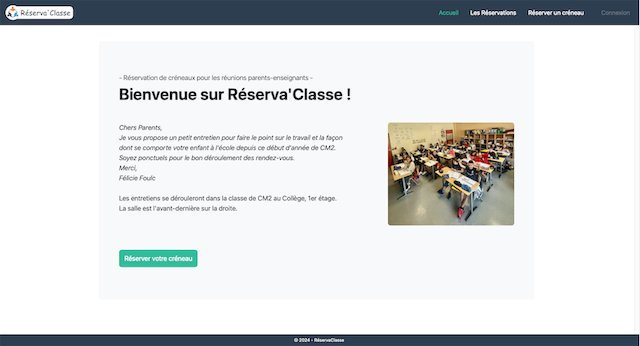
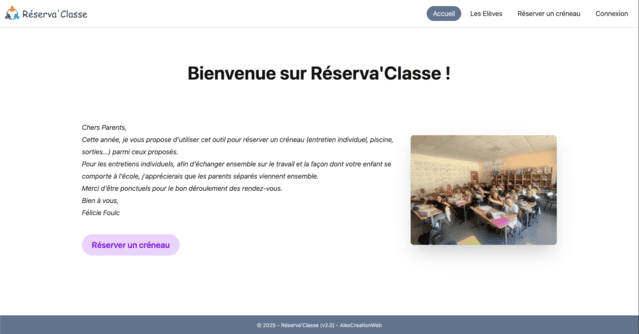
Ajout du fichier README.md et mise à jour de l'image de capture d'écran

diff --git a/README.md b/README.md
@@ -1,0 +1,265 @@
+# Réserva'Classe 2.0 : Gestion des créneaux parents-enseignants et activités scolaires
+
+![Screenshot de l'application ReservaClasse](screenshot.webp)
+
+Application web développée avec Symfony 6 pour la gestion flexible des rencontres parents-enseignants et des activités scolaires nécessitant des accompagnateurs. Cette version 2.0 apporte une refonte complète avec une meilleure gestion des utilisateurs, une interface moderne et des cas d'utilisation étendus.
+
+## Cas d'utilisation
+
+### Réunions Parents-Enseignants
+
+* Gestion des créneaux multiples sur plusieurs jours
+* Configuration flexible des durées d'entretien (15, 20, 30 minutes...)
+* Possibilité d'ajouter des pauses entre les créneaux
+* Visualisation en temps réel des disponibilités
+* Interface simplifiée pour les réservations
+
+### Sorties Scolaires
+
+* Gestion des besoins en accompagnateurs (piscine, musée, etc.)
+* Un créneau unique par jour avec places limitées
+
+## Fonctionnalités techniques
+
+### Gestion des utilisateurs
+
+* Support multi-utilisateurs avec différents rôles :
+  * ADMIN : Gestion complète de l'application au niveau d'une Établissement
+  * TEACHER : Gestion des sessions et des élèves par l'enseignant
+  * USER : Réservation par mot de passe/envoi de notifications (fonctionnalité à venir)
+* Interface d'administration sécurisée (EasyAdmin)
+* Validation stricte des mots de passe
+
+### Gestion des sessions et créneaux
+
+* Sessions personnalisables par l'enseignant
+* Configuration flexible (durée, intervalle, dates multiples)
+* Visualisation du taux d'occupation
+
+### Gestion des élèves
+
+* Import d'une liste d'élèves
+* Suppression intelligente (gestion des dépendances)
+* Suivi des réservations par élève
+
+### Interface utilisateur moderne
+
+* Design responsive avec Tailwind CSS v4
+* Bibliothèque de composants daisyUI
+* Messages flash contextuels
+* Tableaux de bord adaptés aux rôles
+
+## Installation
+
+### Prérequis
+
+* PHP 8.1 ou supérieur
+
+* Composer
+* MySQL/MariaDB
+* Symfony CLI (recommandé)
+
+### Installation en LOCAL
+
+1. Cloner le projet
+
+```bash
+git clone https://github.com/votre-repo/ReservaClasse_v2.git
+cd ReservaClasse
+```
+
+2. Installer les dépendances
+
+```bash
+composer install
+```
+
+3. Configurer la base de données dans .env.local
+
+```env
+DATABASE_URL="mysql://user:password@127.0.0.1:3306/reservaclasse_v2"
+```
+
+4. Créer la base de données et les tables
+
+```bash
+symfony console doctrine:database:create
+symfony console doctrine:schema:create
+```
+
+5. Charger les fixtures pour tester
+
+```bash
+symfony console doctrine:fixtures:load
+```
+
+6. Utilisation des fixtures
+
+Les fixtures permettent de peupler la base de données avec des données de test :
+
+* Un compte administrateur
+* Un compte enseignant
+* 10 élèves de test
+* 5 sessions avec dates et créneaux
+* Configuration des durées et intervalles aléatoires
+
+7. Après le chargement des fixtures, vous pouvez vous connecter avec :
+
+* Admin : <admin@test.com> / Password123
+* Enseignant : <teacher@test.com> / Password123
+
+### Déploiement en PRODUCTION
+
+1. Configurer les variables d'environnement
+
+```bash
+APP_ENV=prod
+APP_SECRET=votre_secret
+DATABASE_URL="mysql://user:password@127.0.0.1:3306/reservaclasse"
+```
+
+2. Optimiser l'application
+
+```bash
+composer install --no-dev --optimize-autoloader
+symfony console cache:clear
+symfony console cache:warmup
+```
+
+3. Si besoin : pour supprimer les données de test
+
+```bash
+symfony console doctrine:database:drop --force
+```
+
+4. Pour réinitialiser l'application
+
+```bash
+symfony console doctrine:database:create
+symfony console doctrine:schema:create
+```
+
+5. Mettre à jour la base de données
+
+```bash
+# Appliquer les migrations
+symfony console doctrine:migrations:migrate --env=prod --no-interaction
+```
+
+6. Création d'un utilisateur ADMIN
+
+Pour créer votre premier administrateur en production, utilisez la commande interactive :
+
+```bash
+symfony console app:create-admin
+```
+
+La commande vous demandera de saisir :
+
+* Prénom de l'administrateur
+* Nom de l'administrateur
+* Email
+* Mot de passe (minimum 8 caractères, avec majuscule, minuscule et chiffre)
+* Code public (optionnel)
+
+Exemple d'utilisation :
+
+```bash
+symfony console app:create-admin
+
+Prénom de l'administrateur: John
+Nom de l'administrateur: Doe
+Email de l'administrateur: admin@ecole.fr
+Mot de passe: 
+Code public (optionnel): ADMIN2025
+
+[OK] Compte administrateur créé avec succès !
+```
+
+Note : Cette commande est sécurisée et validera toutes les entrées avant la création du compte.
+
+#### Configuration du serveur web (Apache)
+
+Si vous déployez l'application sur un serveur Apache, vous devez créer un fichier de configuration pour que votre application soit accessible via un navigateur. Voici comment faire :
+
+1. Connectez-vous à votre serveur en SSH.
+
+2. Créez un nouveau fichier de configuration :
+
+    ```bash
+    sudo nano /etc/apache2/sites-available/reservaclasse.conf
+    ```
+
+3. Copiez cette configuration dans le fichier :
+
+    ```apache
+    <VirtualHost *:80>
+        # Configuration de base
+        ServerName reservaclasse.domaine.com
+        DocumentRoot /var/www/reservaclasse/public
+
+        # Règles du répertoire
+        <Directory /var/www/reservaclasse/public>
+            AllowOverride All
+            Require all granted
+            FallbackResource /index.php
+        </Directory>
+
+        # Logs
+        ErrorLog ${APACHE_LOG_DIR}/reservaclasse_error.log
+        CustomLog ${APACHE_LOG_DIR}/reservaclasse_access.log combined
+
+        # Headers de sécurité
+        Header set X-Content-Type-Options "nosniff"
+        Header set X-Frame-Options "SAMEORIGIN"
+        Header set X-XSS-Protection "1; mode=block"
+
+        # Compression GZIP
+        AddOutputFilterByType DEFLATE text/html text/css application/javascript
+
+        # Cache navigateur
+        <FilesMatch "\.(jpg|jpeg|png|gif|js|css)$">
+            Header set Cache-Control "max-age=2592000, public"
+        </FilesMatch>
+
+        # Protection supplémentaire
+        Header set Strict-Transport-Security "max-age=31536000; includeSubDomains"
+        Header set Content-Security-Policy "default-src 'self'"
+    </VirtualHost>
+    ```
+
+4. Activez la configuration et redémarrez Apache :
+
+    ```bash
+    # Activer le site
+    sudo a2ensite reservaclasse.conf
+
+    # Activer les modules nécessaires
+    sudo a2enmod rewrite
+    sudo a2enmod headers
+
+    # Redémarrer Apache pour appliquer les changements
+    sudo systemctl restart apache2
+    ```
+
+Cette configuration permet à Apache de :
+
+* Servir votre application sur votre nom de domaine
+* Diriger tout le trafic vers le dossier public de Symfony
+* Gérer les URL propres de Symfony
+* Enregistrer les erreurs dans des fichiers de log séparés
+
+> **Note** : Cette configuration n'est nécessaire que si vous déployez sur un serveur Apache. Si vous utilisez un autre serveur web (Nginx, par exemple) ou une plateforme d'hébergement gérée, la configuration sera différente.
+
+## Contributions
+
+Les contributions sont les bienvenues ! Vous pouvez :
+
+* Signaler des bugs via les Issues GitHub
+* Proposer des améliorations
+* Soumettre des pull requests
+* Partager vos retours d'expérience
+
+## License
+
+Ce projet est sous licence MIT.
